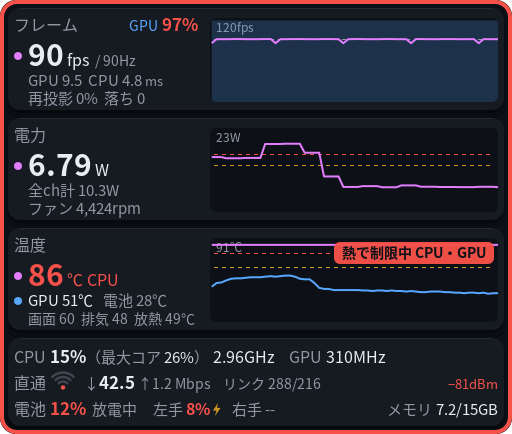
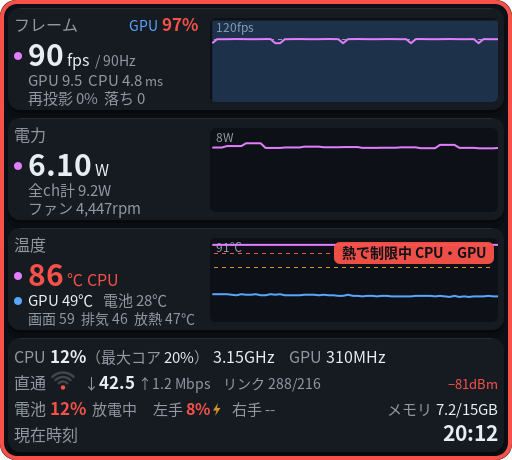
取り込む前の直し: 版の表記・CHANGELOG・README・設定の例・画像・package.sh
- 版の表記を戻した（CMakeLists.txt の "${PROJECT_VERSION}-tai.2" → "${PROJECT_VERSION}"）。テストの中の
  "0.2.0-tai.2" は前のコミットで直した
- CHANGELOG: PR が先頭に足した英語の 0.1.0-tai.x の節を消し、「## 未リリース」に今回の変更を日本語でまとめた
  （手首への固定と時計は TaiKeid さんの PR #1 によるものと明記）
- README（英・日）: ローカル版の説明と「Wrist & clock (local build)」の節を消し、固定先・手首・時計を
  使い方の表と設定ファイルの表に組み込んだ（attachment・left_wrist・right_wrist・wrist_fade・
  wrist_fade_end_deg・clock_format の範囲と既定値はコードに合わせた）。表示する項目に時計の行、値の正確さに
  時計、既知の問題に手首のときの確かめる間隔、開発に ctest と手首の設定パネルの書き出し方を足した。
  日本語版の縦横比を 512×460 に直した
- contrib/config.example.json: PR が変えた position の書き方を元に戻し、新しいキーを保存するときと同じ順で足した
- scripts/package.sh: リリースのビルドは -DBUILD_TESTING=OFF（テストは開発用の build/ で ctest する）
- CMakeLists.txt のテストの部分に説明を付けて整えた
- README の画像（性能パネル・警告の色・設定パネル、日英）を既定の設定で撮り直した（時計つき、設定パネルは 1600×738）

diff --git a/README.md b/README.md
@@ -1,7 +1,5 @@
 # frame-perf-overlay
 
-This local branch adds a clock and controller-attached wrist placement. See [Wrist & clock](#wrist--clock-local-build) below.
-
 A small performance panel for the Steam Frame. It stays in view inside SteamVR and shows the app's frame rate, GPU and CPU load, temperatures, power draw, battery levels and the Steam Link wireless link, so you can see at a glance why a game stutters or the headset gets hot. It runs on the headset itself (aarch64 SteamOS) as an OpenVR overlay.
 
 [日本語版はこちら](README.ja.md)
@@ -12,7 +10,7 @@ Recorded inside the headset while playing Half-Life: Alyx (no sound). The panel 
 
 ![The performance panel](docs/images/panel-en.png)
 
-The panel follows your head and sits in the lower left of your view by default. Position, facing, size, opacity and language (English / Japanese) can be changed from the SteamVR dashboard.
+The panel follows your head and sits in the lower left of your view by default. It can also be worn on your left or right controller like a wristwatch, and it shows the time on its bottom line. Where it's attached, position, facing, size, opacity, clock and language (English / Japanese) can be changed from the SteamVR dashboard.
 
 ![The settings tab in the SteamVR dashboard](docs/images/settings-en.png)
 
@@ -28,6 +26,7 @@ These images were written out by the app itself (`--dump-png` / `--dump-settings
 | Bottom line 1 | CPU usage (overall and busiest core), fastest cluster clock, GPU clock | | |
 | Bottom line 2 | Wireless. **Link** when a PC is on the Steam Link direct wireless link; otherwise **Wi-Fi** for the access point the headset is joined to (e.g. your home Wi-Fi). Signal strength (Wi-Fi icon and dBm), data actually flowing (↓ into the headset, ↑ out of it, Mbps) and link rates. A grey crossed-out icon means neither is connected | | |
 | Bottom line 3 | Headset battery, left and right controller batteries (a bolt while charging), memory | | |
+| Bottom line 4 | The time on the headset's clock (24-hour by default; 12-hour or off in the settings) | | |
 
 Numbers over a threshold turn yellow, and red past a second threshold. The thresholds can be changed in the settings file.
 
@@ -80,20 +79,26 @@ Options:
   | Show: On / Off | Show or hide the panel. While hidden, nothing is read or drawn |
   | Size − / + | Panel width in 2 cm steps (6 cm to 1 m) |
   | Opacity − / + | In 10 % steps (20 % to 100 %) |
-  | Reset | Put show, position, facing, size and opacity back to the defaults |
-  | Top L / Top R / Bottom L / Bottom C / Bottom R | Move the panel to that corner of your view and turn it to face you |
-  | ← Left / Right → / ↑ Up / ↓ Down | Nudge the panel by 2 cm. The facing stays as it is |
-  | Closer / Farther | Move it 5 cm nearer or further (20 cm to 3 m), keeping the direction |
-  | Facing: ← Left / Right → / ↑ Up / ↓ Down | Turn the panel's face by the chosen step (left/right up to ±180°, up/down up to ±90°). It snaps to the step: at 16.7°, By 5° goes to 20° or 15° |
+  | Clock: Off / 12h / 24h | The clock on the panel's bottom line: the headset's time, 24-hour by default, 12-hour with AM / PM, or hidden |
+  | Reset | Put show, attachment, position and facing (head and both hands), tilt fade, clock, size and opacity back to the defaults. Language and thresholds stay |
+  | Attach to: Head / L hand / R hand | Where the panel sits: in front of your eyes, following your head, or on the left / right controller like a wristwatch. The position and facing buttons below always move the one you picked, and each hand keeps its own position and facing |
+  | Top L / Top R / Bottom L / Bottom C / Bottom R (head) | Move the panel to that corner of your view and turn it to face you |
+  | Default wrist position (hand) | Put that hand's panel back to its standard place: lying flat on top of the controller, 5 cm above it and 8 cm toward your wrist |
+  | ← Left / Right → / ↑ Up / ↓ Down | Head: nudge the panel by 2 cm. Hand: move it by 1 cm to the controller's right / left / up / down (up to ±50 cm). The facing stays as it is |
+  | Closer / Farther (head), Toward wrist / Toward tip (hand) | Head: move it 5 cm nearer or further (20 cm to 3 m), keeping the direction. Hand: move it 1 cm toward the back of the controller (your wrist) or toward its tip (up to ±50 cm) |
+  | Facing: ← Left / Right → / ↑ Up / ↓ Down | Turn the panel's face by the chosen step, the same way on your head and on your hand: ↑ Up tilts the face toward the top of the panel, Right → toward its right (left/right up to ±180°, up/down up to ±90° from face-ahead on the head, or from lying flat on the hand). It snaps to the step: at 16.7°, By 5° goes to 20° or 15° |
   | ⟲ Rotate L / Rotate R ⟳ | Spin the panel in its own plane (roll) by the chosen step, counterclockwise / clockwise as you look at it (up to ±180°). Use it if the panel doesn't look level to you |
   | By 1° / By 5° | How far one press of the facing arrows and the rotate buttons turns the panel. Starts at 1° each time the app starts (not saved) |
-  | Face me | Keep the position and turn the panel so it faces your head. The rotation from Rotate L / R (roll) is kept |
-  | Face ahead | Remove the rotation, so the panel is parallel to your face again (the look before this feature) |
+  | Face me (head) | Keep the position and turn the panel so it faces your head. The rotation from Rotate L / R (roll) is kept |
+  | Face ahead (head) | Remove the rotation, so the panel is parallel to your face again (the look before this feature) |
+  | Fade on tilt: On / Off (hand) | On fades the panel out as its face turns away from your eyes, so it shows only when you look at it like a watch. Off keeps it shown at any angle |
+  | Fade angle − / + (hand) | In 5° steps: the angle between the panel's face and the direction to your eyes at which it's gone (35° to 90°). It starts fading 30° before that; the default is 45–75° |
   | Language | English or Japanese, applied immediately |
   | Autostart: On / Off | Turn the systemd service on or off. Takes effect from the next SteamVR start |
   | Quit app | Click twice within 3 seconds to quit |
 
   Changes apply immediately and are saved to the settings file.
+- **On your hand**: the panel follows the controller (SteamVR's tracking of the controller, not hand tracking). If the controller or the headset loses tracking, the panel hides at once and fades back in when tracking returns. The **Perf** tab still works while the panel is hidden. The best position and facing depend on how you hold the controller, so adjust them with the headset on.
 - **Updates**: a bar in the title row, right of the title, always shows the running version, e.g. `Up to date (0.2.0)` (with the automatic check turned off, just the version until you check), with a **Check now** button that asks GitHub right away (it works even with the automatic check turned off). What the bar shows:
   - **New version**: a pink border, `Version 0.2.1 is available`, **Check now** and **Update**. **Update** asks `Update to 0.2.1?` with **Cancel** / **Update**; the second **Update** starts the install.
   - **Updating**: the step (`Updating: Downloading`, …) and, on the right, a small grey note that the panel may close and reopen meanwhile. It does, once, when the new version starts.
@@ -102,41 +107,6 @@ Options:
   - **Can't install from here** (the release has no `SHA256SUMS` or no tar.gz for this app): a pink border and a note to update by hand from GitHub (see [Install](#install)).
 - **The + button** ("launch a program") in the dashboard lists **Frame Perf Overlay**. If it isn't running, this starts it. If it is already running, launching it again toggles the panel between shown and hidden.
 - **Quitting**: hover over the **Perf** icon at the bottom of the dashboard and press its close button, or use **Quit app** in the settings. It shuts down cleanly and stays off until the next SteamVR start (or until you start it from **+** or with `systemctl --user start frame-perf-overlay`).
-
-## Wrist & clock (local build)
-
-Open **Perf → Wrist & clock**. The **Panel & position** button in the bottom row switches back to the main controls.
-
-- **Clock:** Off, 12h (AM/PM), or 24h. Uses the headset's local time zone; 24h is enabled by default. Updates with the performance panel (normally every 500 ms).
-- **Attachment:** Head, Left wrist, or Right wrist. Wrist modes follow the respective **controller**, not bare-hand tracking. Head remains the default and keeps your existing head position.
-- **Offsets:** X/Y/Z buttons move the selected wrist panel in 1 cm steps, limited to ±50 cm. These are controller-local axes: X right, Y up, Z back. Each wrist remembers its own settings.
-- **Rotation:** Pitch X, Yaw Y, and Roll Z change in 5° steps, wrapping at ±180°. Rotations are applied X, then Y, then Z. Initial wrist pose is (0, 5, 8) cm, with pitch −90°; tune it while holding the controller as you normally would.
-- **Angle fade:** On by default for wrists only. The panel is fully visible when its front faces your eyes, fades smoothly as you turn it away, and becomes invisible when facing away. The default fade range is 45–75° between the panel's front normal and the line from the panel to your headset. Use −/+ to move the 30° fade band (ending at 35–90°). Off keeps the wrist panel visible at the selected opacity regardless of angle.
-- Fading is smoothed over time and checked at up to 60 Hz without redrawing sensors at that rate. Controller attachment itself follows SteamVR tracking. Loss of controller or headset tracking hides the wrist panel immediately; valid tracking restores it automatically. **Perf** settings stay accessible even while the wrist panel is hidden.
-- Size and opacity remain on **Panel & position**. Its position controls adjust the saved **head** placement. **Reset** also resets both wrists, attachment, fade, and clock format; language and thresholds are preserved.
-
-Config additions (old config files continue to work):
-
-```json
-{
-  "attachment": "head",
-  "left_wrist": { "x": 0, "y": 0.05, "z": 0.08, "pitch": -90, "yaw": 0, "roll": 0 },
-  "right_wrist": { "x": 0, "y": 0.05, "z": 0.08, "pitch": -90, "yaw": 0, "roll": 0 },
-  "wrist_fade": true,
-  "wrist_fade_end_deg": 75,
-  "clock_format": 24
-}
-```
-
-Build and test on the headset:
-
-```sh
-cmake -G Ninja -S . -B build
-cmake --build build -j2
-ctest --test-dir build --output-on-failure
-```
-
-The custom binary reports `0.2.0-tai.2`. Automated checks cover transforms, facing/back-facing angles, fade smoothing, invalid/lost tracking, recovery from failed opacity/show/hide calls, attachment/reappearance fade timing, clock boundaries, saved settings, and settings button hit tests. Wrist comfort and controller orientation still need in-headset calibration. To render the wrist settings page without SteamVR, use `--dump-settings-png` with a config whose attachment is `left_wrist` or `right_wrist`.
 
 ## Settings file
 
@@ -149,8 +119,14 @@ A file with every key at its default value is in [`contrib/config.example.json`]
 | `visible` | `true` | `false` hides the panel (and stops reading and drawing) |
 | `update_check` | `true` | `false` turns off the automatic checks for a new release (at start and daily). The **Check now** button in the Perf tab still works either way |
 | `language` | your Steam language | `"en"` (English) or `"ja"` (Japanese) |
+| `attachment` | `"head"` | Where the panel is attached: `"head"`, `"left_wrist"` or `"right_wrist"` (the left / right controller) |
 | `position.x` / `.y` / `.z` | `-0.15` / `-0.12` / `-0.5` | Panel center relative to your head, in meters. +x is right, +y is up, −z is forward |
 | `rotation.yaw` / `.pitch` / `.roll` | `0` / `0` / `0` | Panel rotation in degrees. `yaw` turns the face left/right (positive = toward +x, −180 to 180), `pitch` tilts it up/down (positive = up, −90 to 90), `roll` spins it in its own plane (positive = counterclockwise as you look at it, −180 to 180). Applied in the order yaw → pitch → roll. All 0 keeps the panel parallel to your face. "Face me" and the corner buttons set yaw and pitch and keep roll as it is |
+| `left_wrist.x` / `.y` / `.z`, `right_wrist.x` / `.y` / `.z` | `0` / `0.05` / `0.08` | Panel center relative to that hand's controller, in meters (−0.5 to 0.5). +x is the controller's right, +y its up, +z its back (toward your wrist) |
+| `left_wrist.yaw` / `.pitch` / `.roll`, `right_wrist.yaw` / `.pitch` / `.roll` | `0` / `-90` / `0` | Panel rotation on that hand, in degrees, with the same meaning and order as `rotation`, counted from the panel lying flat on top of the controller with its top toward the controller's tip, which is `pitch` −90. `pitch` −180 to 0 (−180 stands it up facing your wrist, 0 faces the tip), `yaw` and `roll` −180 to 180 |
+| `wrist_fade` | `true` | On a hand, fade the panel out as its face turns away from your eyes. `false` keeps it shown at any angle |
+| `wrist_fade_end_deg` | `75` | Angle (degrees, 35 to 90) between the panel's face and the direction to your eyes at which the panel on a hand is gone. It starts fading 30° earlier |
+| `clock_format` | `24` | The clock on the panel's bottom line: `24` (24-hour), `12` (12-hour with AM / PM) or `0` (hidden) |
 | `width_m` | `0.2` | Panel width in meters. The height follows from the aspect ratio (512 × 460) |
 | `alpha` | `0.9` | Opacity of the whole panel (0 to 1) |
 | `update_interval_ms` | `500` | Update interval (100 to 5000 ms) |
@@ -213,6 +189,7 @@ Some values were checked against another source on a Steam Frame; others are est
 - **CPU usage and clocks, GPU clock, memory, headset battery**: match `top` and the raw values in `/proc` and `/sys`.
 - **CPU, GPU and battery temperatures**: within 1 to 2 °C of the raw sensor values.
 - **Fan speed**: the raw tachometer value divided by 2, the same conversion SteamOS's own fan control uses.
+- **Clock**: the headset's own clock and time zone, redrawn with every panel update (every 0.5 seconds by default).
 
 **Estimates**
 
@@ -232,6 +209,7 @@ Some values were checked against another source on a Steam Frame; others are est
 - The dashboard's close button says "Close", not "Quit", because the app isn't a Steam app.
 - Command-line output (`--print`, `--help`) and the logs are in Japanese only.
 - There is no controller button binding. Use the dashboard or the settings file.
+- On a hand, the panel follows the controller, not your tracked hand. When the fade is on, the app checks the angle 30 times a second while the panel is fading and 10 times a second otherwise, so losing tracking hides it within about 0.1 seconds.
 
 ## Privacy
 
@@ -259,6 +237,7 @@ Build on the headset (the program links against SteamOS's cairo, FreeType, libnl
 ```sh
 cmake -G Ninja -S . -B build
 cmake --build build
+ctest --test-dir build --output-on-failure  # tests (wrist geometry, fade, clock, settings file, settings buttons)
 ./install.sh               # installs build/frame-perf-overlay
 scripts/package.sh         # release build: dist/frame-perf-overlay-<version>.tar.gz, dist/SHA256SUMS
 ```
@@ -269,6 +248,7 @@ Useful options (all of them work without SteamVR, except the last one):
 ./build/frame-perf-overlay --print --count 5        # print the readings once a second, 5 times
 ./build/frame-perf-overlay --dump-png panel.png --seconds 30 --fake-frames --language en
 ./build/frame-perf-overlay --dump-settings-png settings.png --language en
+./build/frame-perf-overlay --dump-settings-png wrist.png --config wrist.json --language en  # wrist.json: {"attachment": "left_wrist"}
 ./build/frame-perf-overlay --dump-settings-png update.png --preview-update available --language en
 ./build/frame-perf-overlay --contrast-report        # WCAG contrast of every color pair used
 ./build/frame-perf-overlay --verbose                # run as the overlay and log the values every few seconds

diff --git a/CHANGELOG.md b/CHANGELOG.md
@@ -1,17 +1,31 @@
-## 0.1.0-tai.2 (local branch, 2026-09-27)
-
-- Retry rejected opacity/show/hide operations instead of caching them as successful; retries also run in head mode. Defer revealing a hidden panel until its opacity was accepted.
-- Start wrist fade timing from zero on attachment changes and after tracking or visibility returns, preventing an old head-mode interval from skipping the fade-in.
-- Add regression tests for transient/repeated API failures, wrist switching and reappearance after a long pause.
-
-## 0.1.0-tai.1 (local branch, 2026-09-27)
-
-- Add local-time clock with Off / 12h / 24h controls.
-- Add Head / Left wrist / Right wrist attachment, independent wrist offsets and Euler rotations.
-- Add adjustable view-angle fade with temporal smoothing and immediate hiding on tracking loss.
-- Add English/Japanese wrist settings page and CTest coverage for geometry, tracking, configuration, clock and controls.
-
 # 変更履歴
+
+## 未リリース
+
+### 手首への固定と時計（TaiKeid さんの PR #1）
+
+- 性能パネルを左手・右手のコントローラーに腕時計のように付けられるようにした。設定パネルの「位置」のカードのいちばん上に「固定先」（頭 / 左手 / 右手）を足した。左右の手は、それぞれの位置と向きを覚えている。設定ファイルに `attachment`（`"head"` / `"left_wrist"` / `"right_wrist"`、既定 `"head"`）と `left_wrist` / `right_wrist`（`x` / `y` / `z` / `yaw` / `pitch` / `roll`）を足した。今までの設定ファイルはそのまま使える
+- 位置と向きのボタンは、どこに固定していても同じカードの同じボタンで、選んでいる固定先のものを動かす（別の画面は作らない）。手のときは、微調整の十字がコントローラーから見た向きに 1cm ずつ（±50cm まで）、「近く / 遠く」の場所のボタンが「手首側 / 先端側」、位置のボタンが「手首の標準の位置」（コントローラーの上に寝かせて 5cm 上・8cm 手首側）になる
+- 手の向きの約束は頭のパネルとそろえた: パネル自身の軸で yaw → pitch → roll、「↑ 上向き」で面がパネルの上側へ、「右向き →」で右側へ、「左に回す」で面を見て反時計回り。コントローラーの上に寝かせた向きを `pitch` −90 として数え（既定）、そこから上下 ±90°（`pitch` −180〜0）まで。寝かせた向きのまわりで回すので、左右・上下・回転がそれぞれ別の軸で効く
+- 手に付けたとき、パネルの面が目の方から外れるほど薄くして消す（「傾けると消す」、既定オン）。消えきる角度は「消える角度」で 35〜90° の間で 5° ずつ変えられ、その 30° 手前から薄くなり始める（既定 45〜75°）。設定ファイルの `wrist_fade`・`wrist_fade_end_deg`。薄くなり方は時定数 80ms でなめらかにする
+- コントローラーか本体のトラッキングが外れたら、フェードを待たずにすぐ隠す。戻ったら 0 から薄く出す
+- 性能パネルのいちばん下の行に時計（本体の時刻）を足した。設定パネルの「パネル」のカードの「時計」でオフ / 12h / 24h を選ぶ（既定 24h）。設定ファイルの `clock_format`（`0` / `12` / `24`）。そのためパネルの縦横比が 512×434 から 512×460 になった
+- OpenVR が透明度・表示・置き場所の変更を断ったときは、うまくいったことにせず、少しあとにやり直す（頭のときも）。透明度を断られたときは、古い透明度のままパネルを出さない
+- 「既定に戻す」で、固定先・両手の位置と向き・傾けると消す・時計も既定に戻す
+
+### 設定パネル
+
+- 設定パネルを 1600×738 にした（前は 1600×690）。3 つのカードを同じ高さの 5 段にそろえ、「パネル」に時計の行、「位置」に固定先の行を足した。手のときは「向き」のいちばん下の段が「自分に向ける / 正面向き」から「傾けると消す」「消える角度」に変わる
+- 3 択のセグメント切り替え（固定先・時計）を足した。2 択と同じ見た目（選択中はアクセントの塗り ＋ ✓）
+
+### CPU
+
+- 手に付けているときは、パネルの見え方を確かめる間隔を、薄くなっている途中（角度がフェードの範囲に入っている間も）は 1/30 秒、見えきっている・消えきっているときは 0.1 秒にした。ほかの用事で起きたついでに済ませ、設定パネルのイベントは 0.5 秒おきと設定パネルが見えている間だけ見る。コントローラーの番号（役割から引く）は 1 秒ごとに聞き直す。作者の Frame で、左手に付けて 0.8% ほど（頭と同じくらい）
+
+### そのほか
+
+- テストを足した（`ctest --test-dir build`）: 手首の位置と向きの計算、頭と手で向きの約束が同じこと、頭と手の回転が互いに影響しないこと、フェードと確かめる間隔、断られた操作のやり直し、時計、設定ファイルの読み書き、設定パネルのボタンの当たり判定と見た目のずれ。`scripts/package.sh` のリリースのビルドではテストを作らない（`-DBUILD_TESTING=OFF`）
+- README の画像（性能パネル・警告の色・設定パネル、日英）を時計つきで撮り直した
 
 ## 0.2.0 — 2026-09-27
 
